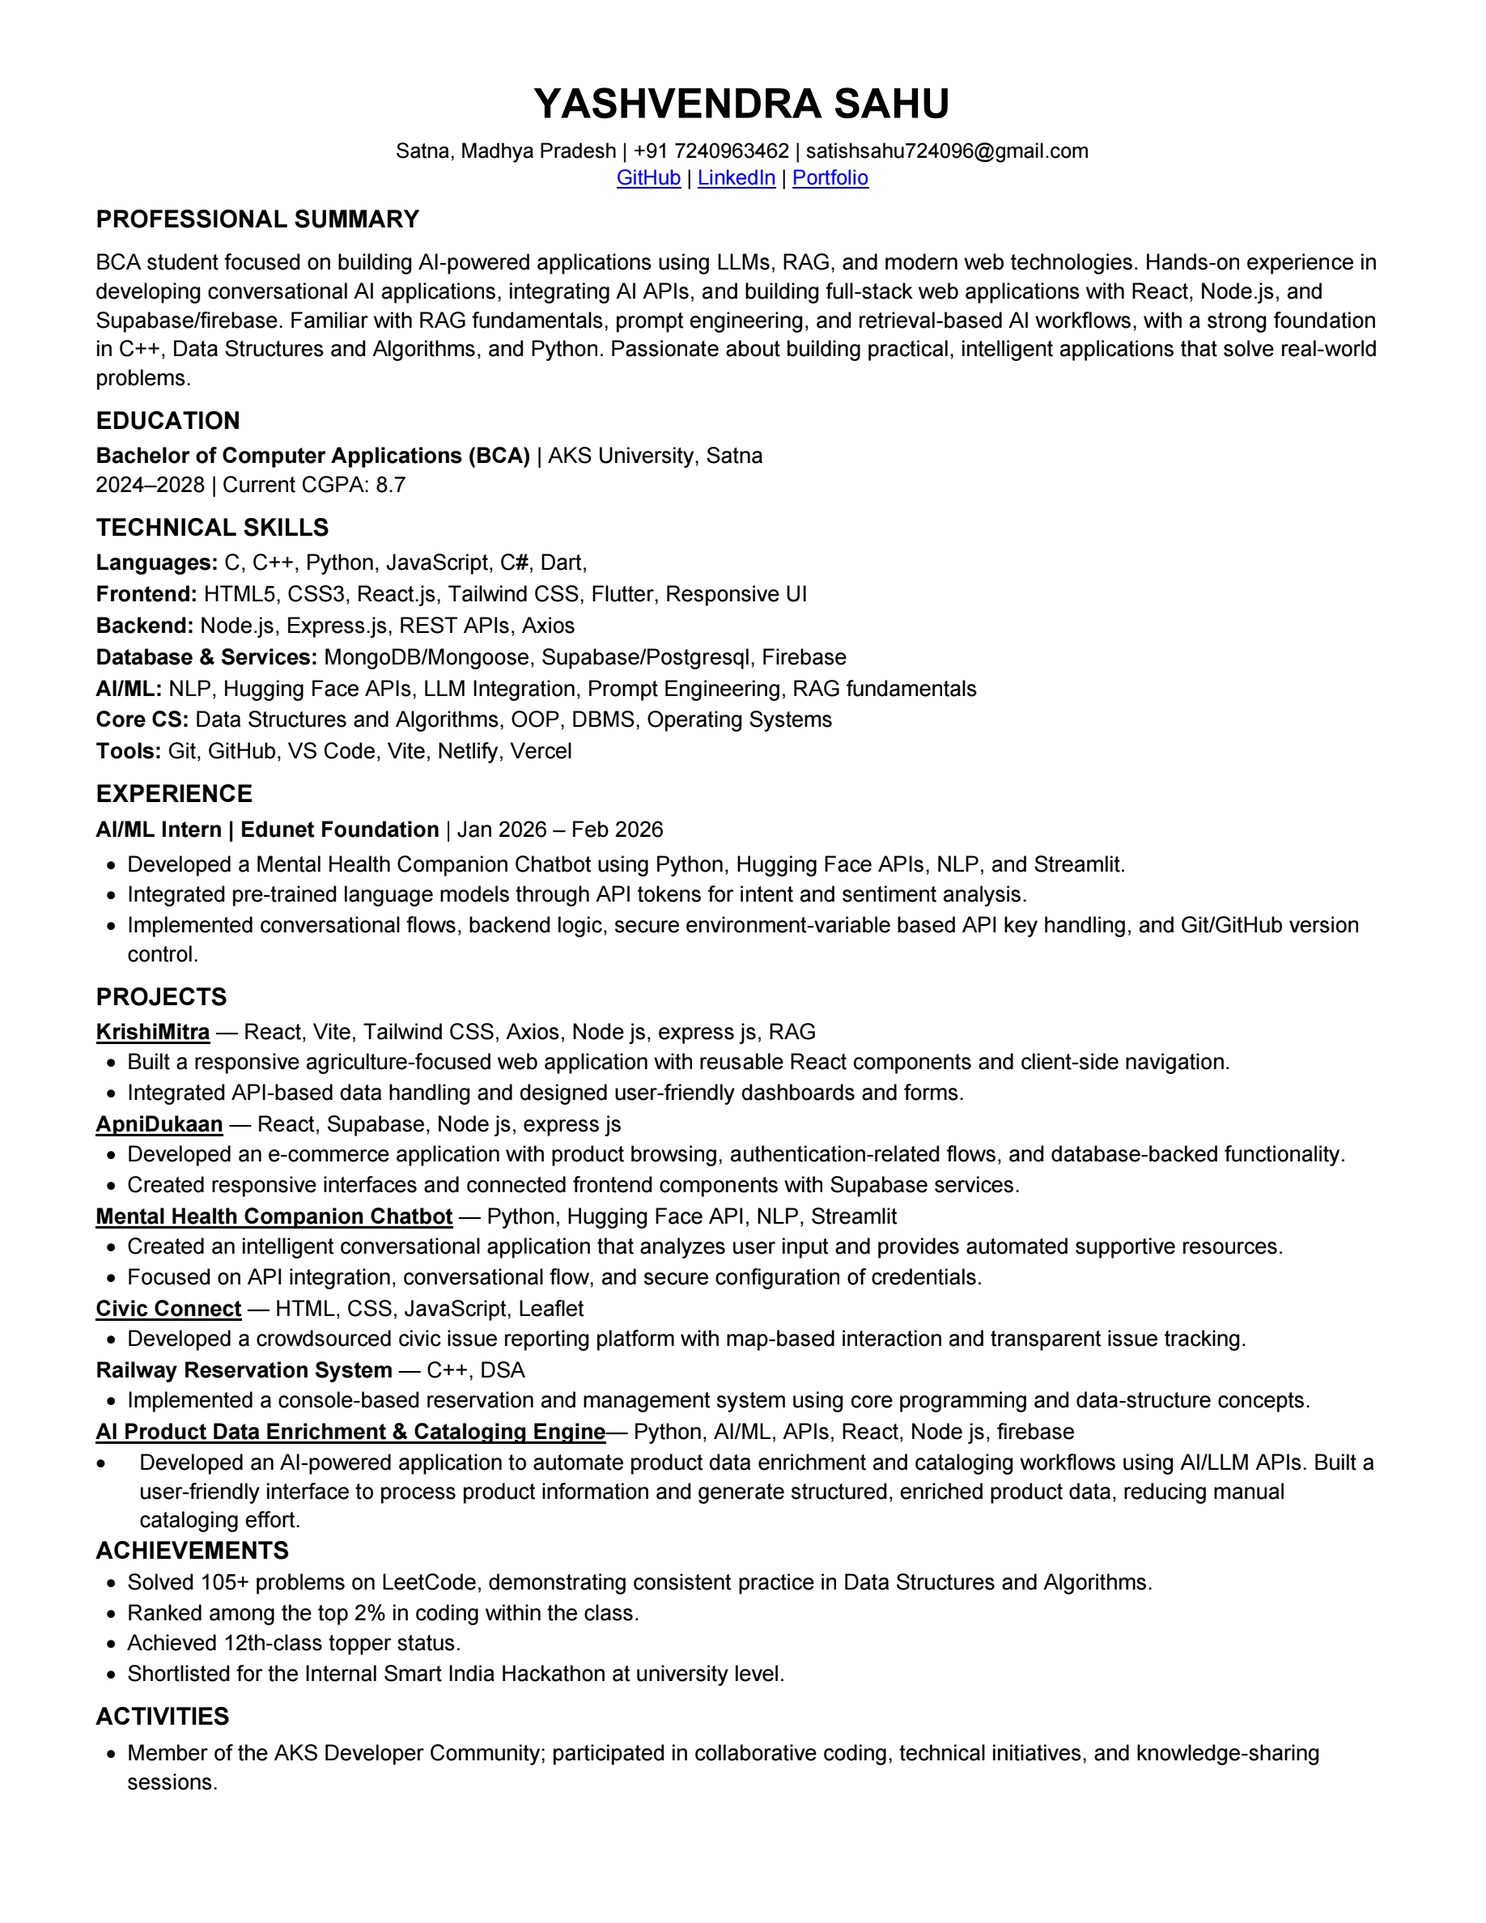
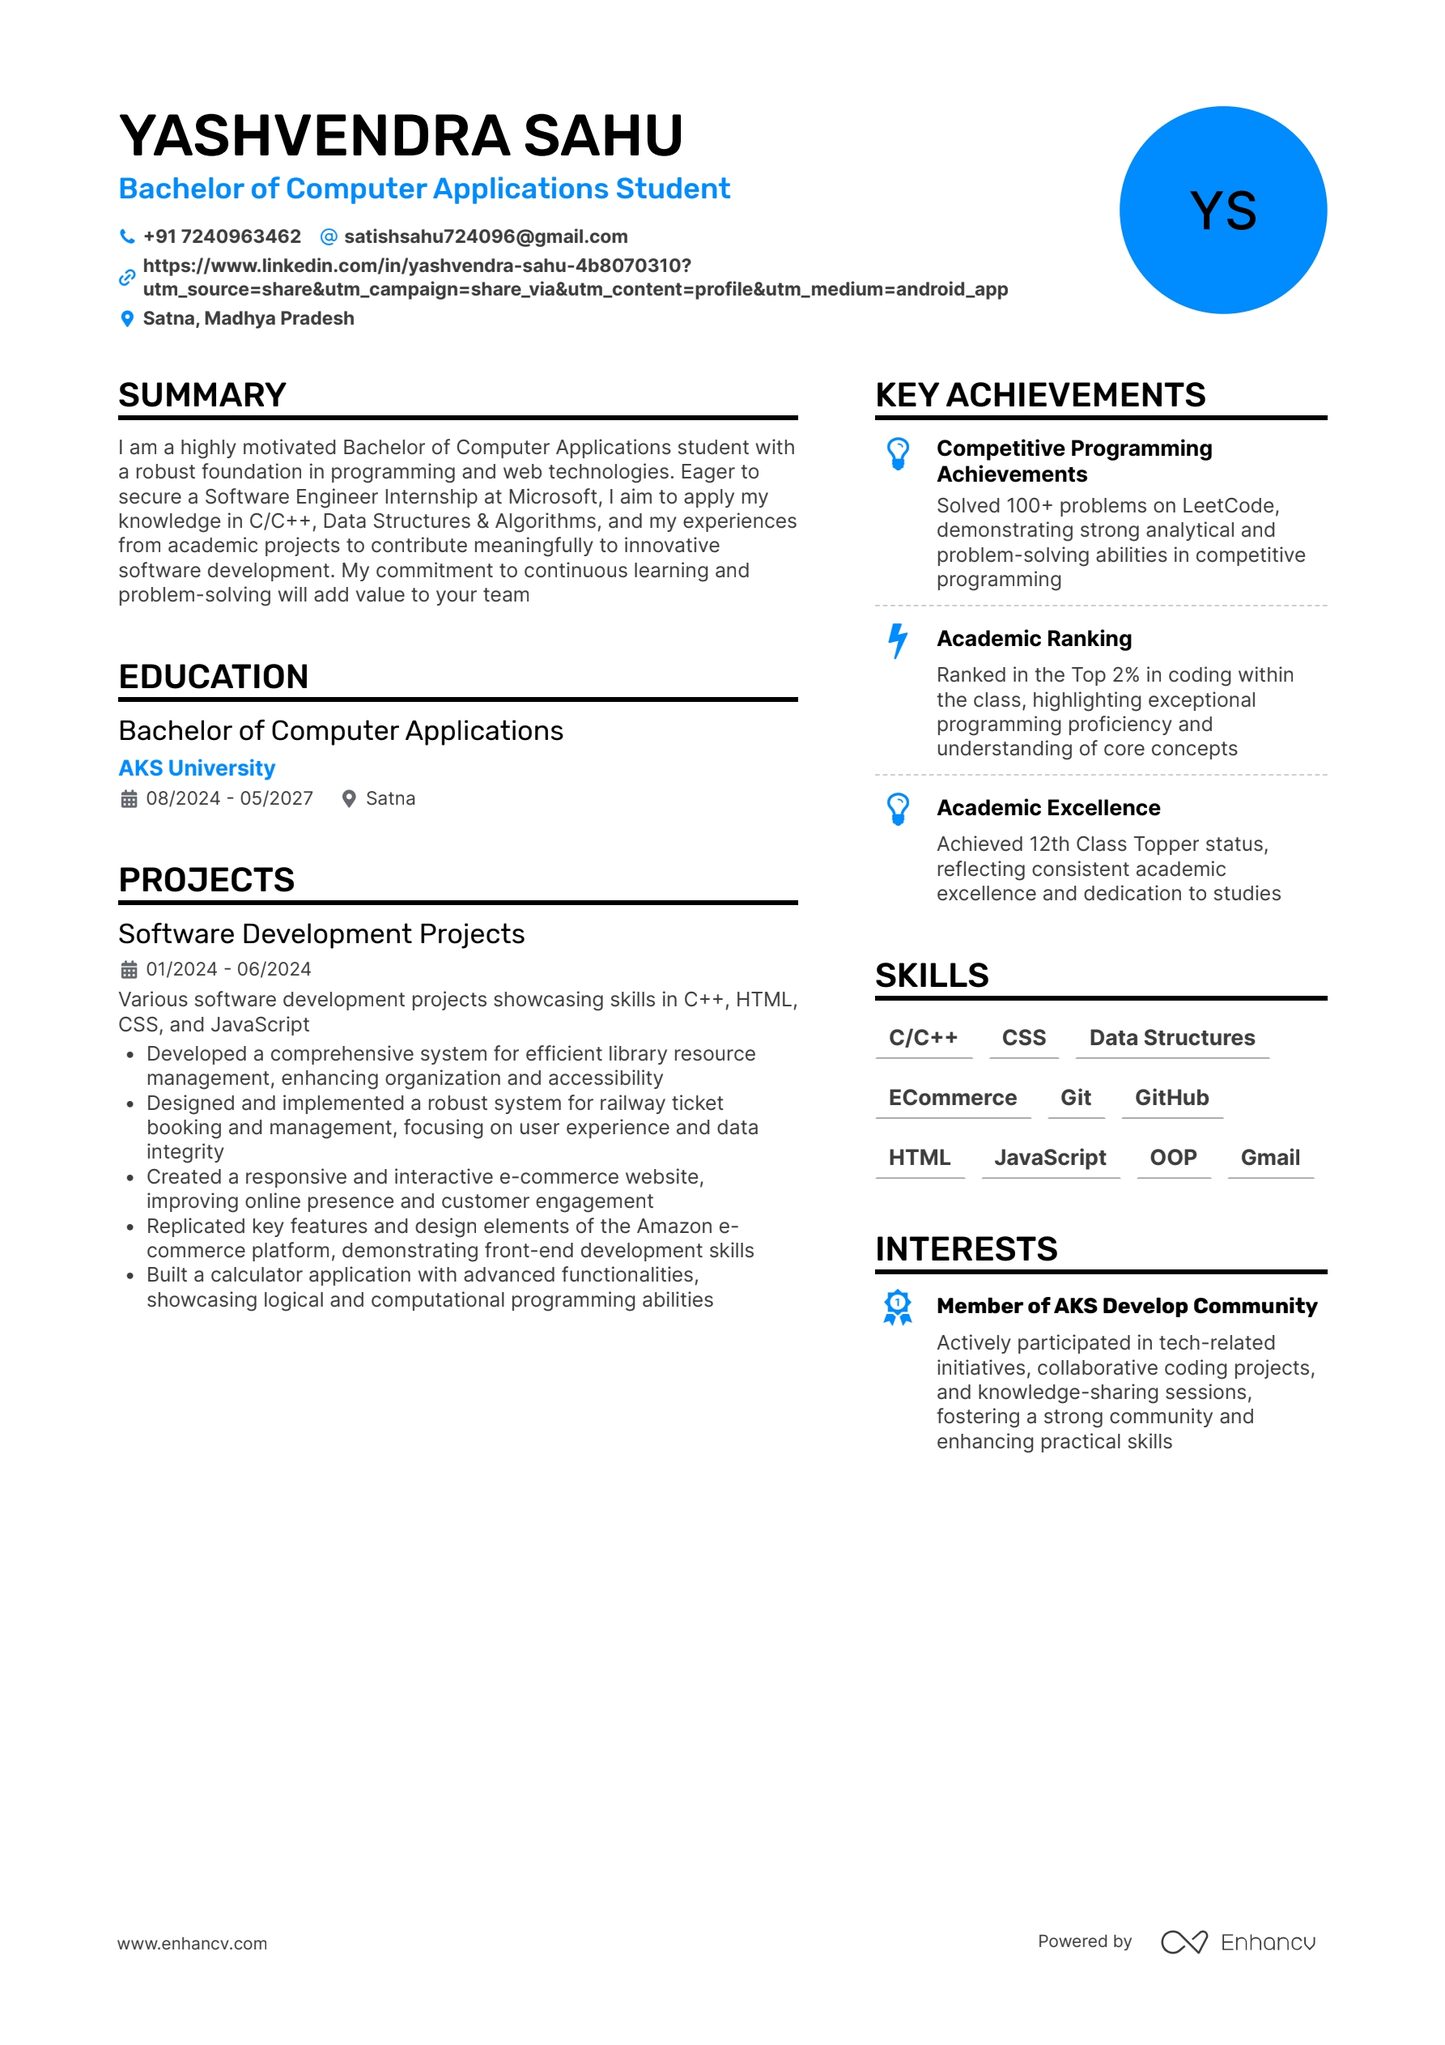
Prepare portfolio for Vercel deployment

Changed region(s): [[0.0616, 0.0311, 0.9244, 0.9655]]

diff --git a/src/main.jsx b/src/main.jsx
@@ -58,170 +58,34 @@ function Nav(){
 function Button({children,href='#',secondary=false}){return <a href={href} target={href.startsWith('http')?'_blank':undefined} rel="noreferrer" className={`glow-btn inline-flex items-center justify-center gap-2 rounded-xl px-5 py-3 text-sm font-bold transition ${secondary?'border border-white/15 bg-white/5 hover:bg-white/10 light:border-black/10 light:bg-black/5':'bg-fuchsia-500 text-white hover:bg-fuchsia-400'}`}>{children}</a>}
 function SectionHeading({eyebrow,title,text}){return <div className="max-w-3xl"><p className="text-xs font-bold uppercase tracking-[.28em] text-fuchsia-400">{eyebrow}</p><h2 className="mt-3 text-4xl font-black tracking-tight sm:text-5xl">{title}</h2>{text&&<p className="mt-4 leading-7 text-zinc-400 light:text-zinc-600">{text}</p>}</div>}
 
-function Assistant() {
-  const [open, setOpen] = React.useState(false);
-  const [q, setQ] = React.useState("");
-  const [loading, setLoading] = React.useState(false);
+function Assistant(){
+  const [open,setOpen]=React.useState(false)
+  const [q,setQ]=React.useState('')
+  const [loading,setLoading]=React.useState(false)
+  const [messages,setMessages]=React.useState([{role:'bot',text:'Hi! Ask me about Yashvendra, his projects, skills, achievements or education.'}])
 
-  const [messages, setMessages] = React.useState([
-    {
-      role: "bot",
-      text: "Hi! I'm Yashvendra's AI portfolio assistant. Ask me about his skills, projects, AI/RAG work or education.",
-    },
-  ]);
-
-  async function ask(e) {
-    e.preventDefault();
-
-    const text = q.trim();
-
-    if (!text || loading) return;
-
-    setMessages((m) => [
-      ...m,
-      {
-        role: "user",
-        text,
-      },
-    ]);
-
-    setQ("");
-    setLoading(true);
-
-    try {
-      const response = await fetch("http://localhost:3001/api/chat", {
-        method: "POST",
-        headers: {
-          "Content-Type": "application/json",
-        },
-        body: JSON.stringify({
-          message: text,
-        }),
-      });
-
-      const data = await response.json();
-
-      if (!response.ok) {
-        throw new Error(data.error || "Request failed");
-      }
-
-      setMessages((m) => [
-        ...m,
-        {
-          role: "bot",
-          text: data.answer,
-        },
-      ]);
-    } catch (error) {
-      setMessages((m) => [
-        ...m,
-        {
-          role: "bot",
-          text: "Sorry, the AI assistant is currently unavailable.",
-        },
-      ]);
-    } finally {
-      setLoading(false);
-    }
+  async function ask(e){
+    e.preventDefault()
+    const text=q.trim()
+    if(!text || loading)return
+    setMessages(m=>[...m,{role:'user',text}])
+    setQ('')
+    setLoading(true)
+    try{
+      const response=await fetch('/api/chat',{
+        method:'POST',
+        headers:{'Content-Type':'application/json'},
+        body:JSON.stringify({message:text})
+      })
+      const data=await response.json()
+      if(!response.ok)throw new Error(data.error||'Request failed')
+      setMessages(m=>[...m,{role:'bot',text:data.answer}])
+    }catch(error){
+      setMessages(m=>[...m,{role:'bot',text:'AI assistant is temporarily unavailable. Please try again.'}])
+    }finally{setLoading(false)}
   }
 
-  return (
-    <>
-      <button
-        onClick={() => setOpen(true)}
-        className="assistant-launch fixed bottom-5 right-5 z-40 flex items-center gap-2 rounded-full bg-fuchsia-500 px-4 py-3 font-bold text-white shadow-2xl shadow-fuchsia-900/40"
-      >
-        <Bot size={18} />
-        Ask my portfolio
-      </button>
-
-      <AnimatePresence>
-        {open && (
-          <motion.div
-            className="fixed inset-0 z-[70] flex items-end justify-end bg-black/50 p-4 backdrop-blur-sm sm:items-end"
-            initial={{ opacity: 0 }}
-            animate={{ opacity: 1 }}
-            exit={{ opacity: 0 }}
-          >
-            <motion.div
-              initial={{ opacity: 0, y: 30, scale: 0.97 }}
-              animate={{ opacity: 1, y: 0, scale: 1 }}
-              exit={{ opacity: 0, y: 30, scale: 0.97 }}
-              className="w-full max-w-md overflow-hidden rounded-3xl border border-white/10 bg-zinc-950 shadow-2xl"
-            >
-              <div className="flex items-center justify-between border-b border-white/10 p-5">
-                <div>
-                  <p className="text-xs font-bold uppercase tracking-widest text-fuchsia-400">
-                    AI Portfolio Assistant
-                  </p>
-
-                  <h3 className="mt-1 font-bold">
-                    Ask about Yashvendra
-                  </h3>
-                </div>
-
-                <button onClick={() => setOpen(false)}>
-                  <X />
-                </button>
-              </div>
-
-              <div className="h-[420px] space-y-4 overflow-y-auto p-5">
-                {messages.map((message, index) => (
-                  <div
-                    key={index}
-                    className={`flex ${
-                      message.role === "user"
-                        ? "justify-end"
-                        : "justify-start"
-                    }`}
-                  >
-                    <div
-                      className={`max-w-[85%] rounded-2xl px-4 py-3 text-sm leading-6 ${
-                        message.role === "user"
-                          ? "bg-fuchsia-500 text-white"
-                          : "bg-white/5 text-zinc-300"
-                      }`}
-                    >
-                      {message.text}
-                    </div>
-                  </div>
-                ))}
-
-                {loading && (
-                  <div className="flex items-center gap-2 text-sm text-zinc-500">
-                    <Bot size={16} />
-                    Thinking...
-                  </div>
-                )}
-              </div>
-
-              <form
-                onSubmit={ask}
-                className="border-t border-white/10 p-4"
-              >
-                <div className="flex gap-2">
-                  <input
-                    value={q}
-                    onChange={(e) => setQ(e.target.value)}
-                    placeholder="Ask about my projects..."
-                    className="min-w-0 flex-1 rounded-xl border border-white/10 bg-white/5 px-4 py-3 text-sm outline-none focus:border-fuchsia-400"
-                  />
-
-                  <button
-                    type="submit"
-                    disabled={loading}
-                    className="rounded-xl bg-fuchsia-500 px-4 text-white disabled:opacity-50"
-                  >
-                    <Send size={18} />
-                  </button>
-                </div>
-              </form>
-            </motion.div>
-          </motion.div>
-        )}
-      </AnimatePresence>
-    </>
-  );
+  return <><button onClick={()=>setOpen(true)} className="assistant-launch fixed bottom-5 right-5 z-40 flex items-center gap-2 rounded-full bg-fuchsia-500 px-4 py-3 font-bold text-white shadow-2xl shadow-fuchsia-900/40"><Bot size={18}/> Ask my portfolio</button><AnimatePresence>{open&&<motion.div initial={{opacity:0,y:20,scale:.97}} animate={{opacity:1,y:0,scale:1}} exit={{opacity:0,y:20}} className="assistant-panel fixed bottom-20 right-5 z-50 w-[calc(100vw-2.5rem)] max-w-sm overflow-hidden rounded-3xl border border-white/10 bg-zinc-950 shadow-2xl light:bg-white light:border-black/10"><div className="flex items-center justify-between border-b border-white/10 p-4"><div className="flex items-center gap-2"><Bot size={18} className="text-fuchsia-400"/><b>Portfolio Assistant</b></div><button onClick={()=>setOpen(false)}><X size={18}/></button></div><div className="max-h-80 space-y-3 overflow-y-auto p-4">{messages.map((m,i)=><div key={i} className={m.role==='user'?'ml-8 rounded-2xl bg-fuchsia-500 p-3 text-sm text-white':'mr-4 rounded-2xl bg-white/5 p-3 text-sm leading-6 text-zinc-300 light:bg-black/5 light:text-zinc-700'}>{m.text}</div>)}{loading&&<div className="mr-4 rounded-2xl bg-white/5 p-3 text-sm text-zinc-500 light:bg-black/5">Thinking…</div>}</div><form onSubmit={ask} className="flex gap-2 border-t border-white/10 p-3"><input value={q} onChange={e=>setQ(e.target.value)} placeholder="Ask about Catalog AI..." disabled={loading} className="min-w-0 flex-1 rounded-xl border border-white/10 bg-white/5 px-3 py-2 text-sm outline-none focus:border-fuchsia-400 light:border-black/10 light:bg-black/5"/><button disabled={loading} className="rounded-xl bg-fuchsia-500 p-2.5 text-white disabled:opacity-50"><Send size={17}/></button></form><p className="px-4 pb-3 text-[10px] text-zinc-600">Powered by Gemini. Portfolio context is sent to the AI API; the API key stays server-side.</p></motion.div>}</AnimatePresence></>
 }
 
 function App(){
@@ -239,7 +103,7 @@ function App(){
 
   <section id="journey" className="border-y border-white/10 bg-white/[.02] px-5 py-28 lg:px-8"><div className="mx-auto max-w-7xl"><SectionHeading eyebrow="04 · Journey" title="Learning by building, shipping and experimenting."/><div className="mt-12 grid gap-10 lg:grid-cols-[1fr_1.15fr]"><div className="rounded-3xl border border-white/10 bg-black/30 p-7 sm:p-9"><div className="flex items-center gap-4"><div className="rounded-2xl bg-fuchsia-400/10 p-3 text-fuchsia-400"><BriefcaseBusiness/></div><div><p className="text-xs uppercase tracking-widest text-zinc-500">Experience</p><h3 className="text-xl font-bold">AI / ML & Developer Journey</h3></div></div><p className="mt-7 leading-8 text-zinc-400 light:text-zinc-600">My learning path has moved from core programming and frontend fundamentals toward full-stack applications and AI-powered products. I learn fastest by turning concepts into working projects.</p><div className="mt-7 space-y-3">{['C++ + DSA foundation','Modern React development','Backend APIs with Node.js / Express','Supabase & Firebase data workflows','AI application development & RAG'].map(x=><div className="flex items-center gap-3 text-sm text-zinc-300 light:text-zinc-700" key={x}><CheckCircle2 size={17} className="text-fuchsia-400"/>{x}</div>)}</div></div><div><p className="mb-5 text-xs font-bold uppercase tracking-[.2em] text-zinc-500">Highlights</p><div className="space-y-4">{achievements.map(([title,desc])=><div key={title} className="rounded-2xl border border-white/10 bg-black/20 p-5"><h3 className="font-bold">{title}</h3><p className="mt-2 text-sm leading-6 text-zinc-500">{desc}</p></div>)}</div></div></div></div></section>
 
-  <section id="contact" className="px-5 py-28 lg:px-8"><div className="mx-auto max-w-5xl rounded-[2rem] border border-fuchsia-400/15 bg-gradient-to-br from-fuchsia-500/10 via-white/[.03] to-transparent p-8 text-center sm:p-14 lg:p-20"><Mail className="mx-auto text-fuchsia-400" size={28}/><p className="mt-6 text-xs font-bold uppercase tracking-[.28em] text-fuchsia-400">05 · Contact</p><h2 className="mt-4 text-4xl font-black sm:text-6xl">Let's build something useful.</h2><p className="mx-auto mt-5 max-w-2xl leading-7 text-zinc-400 light:text-zinc-600">Looking for internships, collaborations or opportunities to build real software and AI-powered products.</p><div className="mt-9 flex flex-wrap justify-center gap-3"><Button href="mailto:satishsahu724096@gmail.com">Email me <Mail size={17}/></Button><Button secondary href="https://github.com/Yashvendrasahu">GitHub <Code2 size={17}/></Button><Button secondary href="https://www.linkedin.com/in/yashvendra-sahu-4b8070310">LinkedIn <ExternalLink size={17}/></Button></div></div></section>
+  <section id="contact" className="px-5 py-28 lg:px-8"><div className="mx-auto max-w-5xl rounded-[2rem] border border-fuchsia-400/15 bg-gradient-to-br from-fuchsia-500/10 via-white/[.03] to-transparent p-8 text-center sm:p-14 lg:p-20"><Mail className="mx-auto text-fuchsia-400" size={28}/><p className="mt-6 text-xs font-bold uppercase tracking-[.28em] text-fuchsia-400">05 · Contact</p><h2 className="mt-4 text-4xl font-black sm:text-6xl">Let's build something useful.</h2><p className="mx-auto mt-5 max-w-2xl leading-7 text-zinc-400 light:text-zinc-600">Looking for internships, collaborations or opportunities to build real software and AI-powered products.</p><div className="mt-9 flex flex-wrap justify-center gap-3"><Button href="mailto:yadvendrasingrual@gmail.com">Email me <Mail size={17}/></Button><Button secondary href="https://github.com/Yashvendrasahu">GitHub <Code2 size={17}/></Button><Button secondary href="https://www.linkedin.com/in/yashvendra-sahu-4b8070310">LinkedIn <ExternalLink size={17}/></Button></div></div></section>
  </main><footer className="border-t border-white/10 px-5 py-10 lg:px-8"><div className="mx-auto flex max-w-7xl flex-col gap-4 text-sm text-zinc-600 sm:flex-row sm:items-center sm:justify-between"><p>© 2026 Yashvendra Sahu</p><p>React · Vite · Tailwind CSS · AI / RAG</p></div></footer><Assistant/>
  <AnimatePresence>{selected&&<motion.div className="fixed inset-0 z-[60] flex items-center justify-center bg-black/70 p-5 backdrop-blur-sm" initial={{opacity:0}} animate={{opacity:1}} exit={{opacity:0}} onClick={()=>setSelected(null)}><motion.div initial={{y:25,opacity:0}} animate={{y:0,opacity:1}} exit={{y:25,opacity:0}} onClick={e=>e.stopPropagation()} className="max-h-[90vh] w-full max-w-2xl overflow-y-auto rounded-3xl border border-white/10 bg-zinc-950 p-7 light:bg-white sm:p-9"><div className="flex items-start justify-between gap-5"><div><p className="text-xs font-bold uppercase tracking-widest text-fuchsia-400">Case study</p><h2 className="mt-2 text-3xl font-black">{selected.title}</h2></div><button onClick={()=>setSelected(null)}><X/></button></div><div className="mt-8 space-y-5">{[0,2,4].map(i=><div key={i} className="rounded-2xl border border-white/10 bg-white/[.03] p-5"><p className="text-xs font-bold uppercase tracking-widest text-fuchsia-400">{selected.caseStudy[i]}</p><p className="mt-2 leading-7 text-zinc-400 light:text-zinc-600">{selected.caseStudy[i+1]}</p></div>)}</div></motion.div></motion.div>}</AnimatePresence>
  </>

diff --git a/api/chat.js b/api/chat.js
@@ -1,0 +1,55 @@
+import { GoogleGenAI } from '@google/genai'
+
+const portfolioContext = `
+You are the AI assistant for Yashvendra Sahu's developer portfolio.
+Answer questions about Yashvendra using ONLY the information below.
+
+ABOUT:
+Yashvendra Sahu is a BCA (Hons) student at AKS University, 2024-2027.
+He focuses on modern web development, full-stack applications, AI-powered applications and RAG-based systems.
+
+SKILLS:
+C++, Data Structures and Algorithms, HTML, CSS, JavaScript, React, Vite, Tailwind CSS,
+Node.js, Express.js, REST APIs, Supabase, Firebase, AI, RAG, Git and GitHub.
+
+PROJECTS:
+1. Catalog AI — Product Enhancement: AI-assisted product enhancement and cataloging focused on structured, review-ready product data.
+2. ApniDukaan: merchant-focused application concept for small and less-technical shopkeepers, using React, Node.js, Supabase and AI-oriented workflows.
+3. CineBook: movie booking web application using React and Supabase with QR-based booking confirmation.
+4. KrishiMitra: React agriculture platform with weather, market, disease guidance, dashboard and chat experiences.
+5. Parking Management System: parking application for tracking records and slot availability, being evolved toward React + Supabase.
+
+AI / RAG:
+Yashvendra is interested in practical AI-powered applications and RAG to ground AI responses in relevant information.
+
+ACHIEVEMENTS:
+Smart India Hackathon; AI / ML Internship; Google Kaggle AI Agents Intensive; AKS Develop Community.
+`
+
+export default async function handler(req, res) {
+  if (req.method !== 'POST') {
+    return res.status(405).json({ error: 'Method not allowed' })
+  }
+
+  try {
+    const message = typeof req.body?.message === 'string' ? req.body.message.trim() : ''
+    if (!message) return res.status(400).json({ error: 'Message is required' })
+
+    const apiKey = process.env.GEMINI_API_KEY
+    if (!apiKey) return res.status(500).json({ error: 'GEMINI_API_KEY is not configured' })
+
+    const ai = new GoogleGenAI({ apiKey })
+    const prompt = `${portfolioContext}\n\nRULES:\n- Do not invent projects, skills, achievements, companies or experience.\n- If information is unavailable, say: "I don't have that information in Yashvendra's portfolio."\n- Keep the answer concise and useful.\n\nUSER QUESTION:\n${message}`
+
+    const response = await ai.models.generateContent({
+      model: 'gemini-3.8-flash',
+      contents: prompt,
+      config: { temperature: 0.4, maxOutputTokens: 300 },
+    })
+
+    return res.status(200).json({ answer: response.text || "I couldn't generate a response." })
+  } catch (error) {
+    console.error('Gemini API Error:', error)
+    return res.status(500).json({ error: 'AI assistant is temporarily unavailable.' })
+  }
+}
